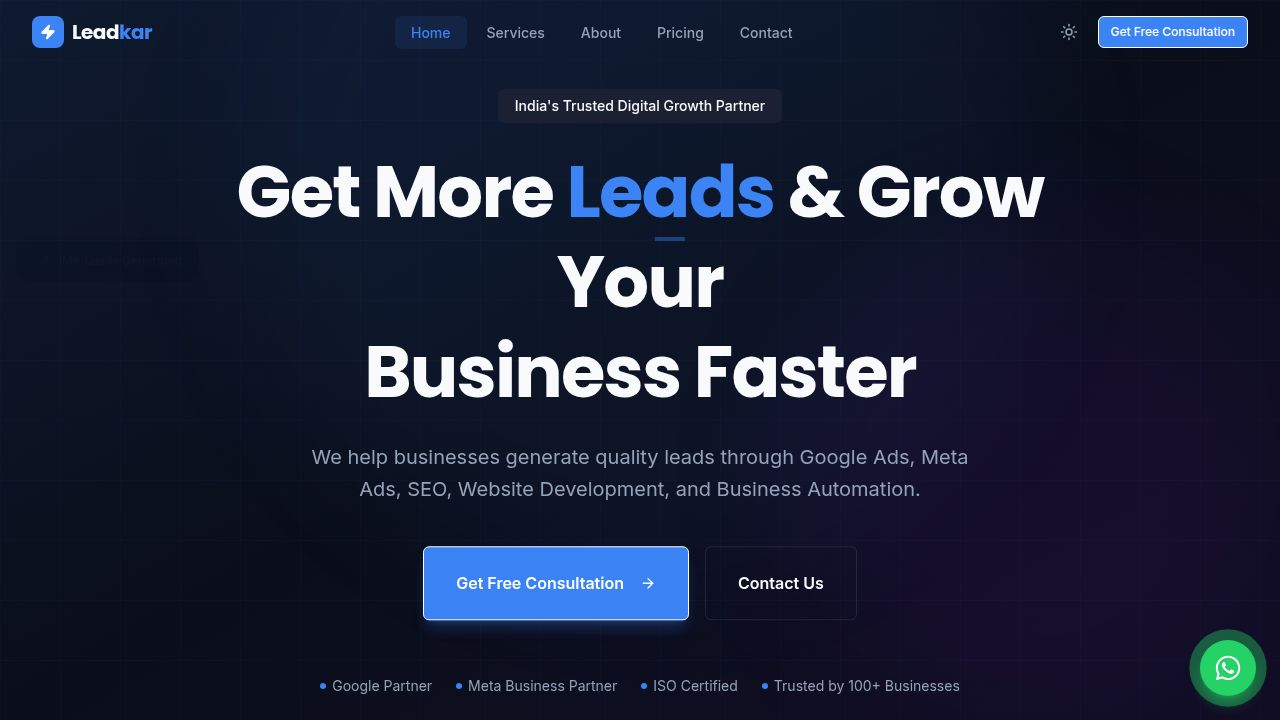
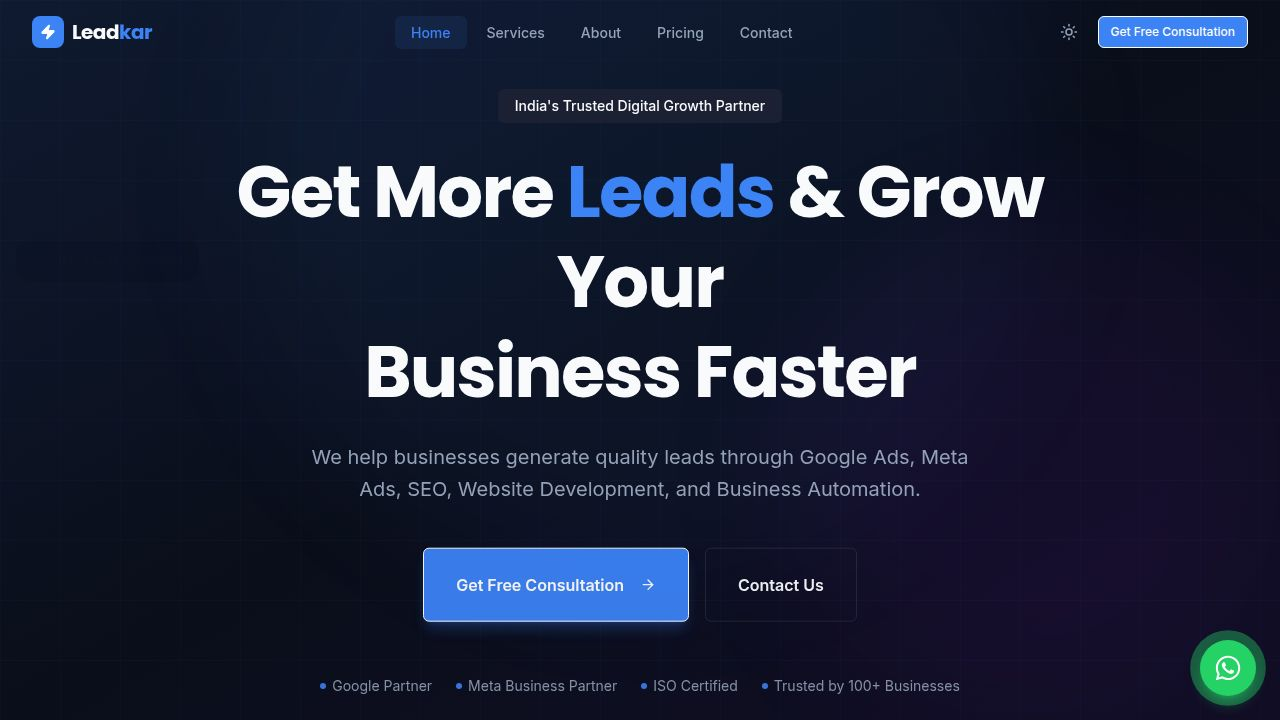
Fix Vercel deployment issues and improve API server type safety
Fixes TypeScript errors in the API server by enabling esModuleInterop and adding explicit types to serializers. Updates the Vite configuration for the frontend to handle environment variables more gracefully during Vercel deployment and adds a root vercel.json for optimal build configuration.

Replit-Commit-Author: Agent
Replit-Commit-Session-Id: c396e599-302f-4d10-a690-fc02da024f7f
Replit-Commit-Checkpoint-Type: full_checkpoint
Replit-Commit-Event-Id: b07485db-b7e8-4b31-8e99-aa65b476d177
Replit-Commit-Screenshot-Url: https://storage.googleapis.com/screenshot-production-us-central1/0bd1af15-3ff2-4db6-83f7-b357c6a0dfa0/c396e599-302f-4d10-a690-fc02da024f7f/ksyXbBy
Replit-Helium-Checkpoint-Created: true

diff --git a/artifacts/leadkar/vite.config.ts b/artifacts/leadkar/vite.config.ts
@@ -2,28 +2,26 @@ import { defineConfig } from "vite";
 import react from "@vitejs/plugin-react";
 import tailwindcss from "@tailwindcss/vite";
 import path from "path";
-import runtimeErrorOverlay from "@replit/vite-plugin-runtime-error-modal";
+
+const isReplit = process.env.REPL_ID !== undefined;
+const isProduction = process.env.NODE_ENV === "production";
 
 const rawPort = process.env.PORT;
+const port = rawPort ? Number(rawPort) : 3000;
 
-if (!rawPort) {
-  throw new Error(
-    "PORT environment variable is required but was not provided.",
-  );
-}
+const basePath = process.env.BASE_PATH ?? "/";
 
-const port = Number(rawPort);
-
-if (Number.isNaN(port) || port <= 0) {
-  throw new Error(`Invalid PORT value: "${rawPort}"`);
-}
-
-const basePath = process.env.BASE_PATH;
-
-if (!basePath) {
-  throw new Error(
-    "BASE_PATH environment variable is required but was not provided.",
-  );
+if (isReplit && !isProduction) {
+  if (!process.env.PORT) {
+    throw new Error(
+      "PORT environment variable is required but was not provided.",
+    );
+  }
+  if (!process.env.BASE_PATH) {
+    throw new Error(
+      "BASE_PATH environment variable is required but was not provided.",
+    );
+  }
 }
 
 export default defineConfig({
@@ -31,10 +29,11 @@ export default defineConfig({
   plugins: [
     react(),
     tailwindcss(),
-    runtimeErrorOverlay(),
-    ...(process.env.NODE_ENV !== "production" &&
-    process.env.REPL_ID !== undefined
+    ...(isReplit && !isProduction
       ? [
+          await import("@replit/vite-plugin-runtime-error-modal").then((m) =>
+            m.default(),
+          ),
           await import("@replit/vite-plugin-cartographer").then((m) =>
             m.cartographer({
               root: path.resolve(import.meta.dirname, ".."),
@@ -49,7 +48,12 @@ export default defineConfig({
   resolve: {
     alias: {
       "@": path.resolve(import.meta.dirname, "src"),
-      "@assets": path.resolve(import.meta.dirname, "..", "..", "attached_assets"),
+      "@assets": path.resolve(
+        import.meta.dirname,
+        "..",
+        "..",
+        "attached_assets",
+      ),
     },
     dedupe: ["react", "react-dom"],
   },

diff --git a/artifacts/api-server/src/app.ts b/artifacts/api-server/src/app.ts
@@ -1,6 +1,7 @@
 import express, { type Express } from "express";
 import cors from "cors";
 import pinoHttp from "pino-http";
+import type { IncomingMessage, ServerResponse } from "node:http";
 import router from "./routes";
 import { logger } from "./lib/logger";
 
@@ -10,14 +11,14 @@ app.use(
   pinoHttp({
     logger,
     serializers: {
-      req(req) {
+      req(req: IncomingMessage & { id?: unknown }) {
         return {
           id: req.id,
           method: req.method,
           url: req.url?.split("?")[0],
         };
       },
-      res(res) {
+      res(res: ServerResponse) {
         return {
           statusCode: res.statusCode,
         };